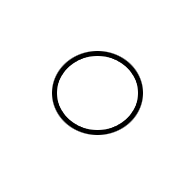
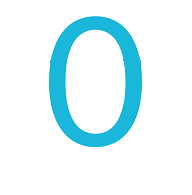
Mi aldonis novajn numerojn

Changed region(s): [[0.25, 0.0615, 0.75, 0.7692]]

diff --git a/docs/.vuepress/dist/index.html b/docs/.vuepress/dist/index.html
@@ -7,7 +7,7 @@
     <meta name="generator" content="VuePress 1.5.2">
     <link rel="icon" href="/elp-documentation/img/icon.png">
     <meta name="description" content="Documentation">
-    <link rel="preload" href="/elp-documentation/assets/css/0.styles.19a27aa8.css" as="style"><link rel="preload" href="/elp-documentation/assets/js/app.902cec4a.js" as="script"><link rel="preload" href="/elp-documentation/assets/js/2.40f18c42.js" as="script"><link rel="preload" href="/elp-documentation/assets/js/8.0102b500.js" as="script"><link rel="prefetch" href="/elp-documentation/assets/js/10.ab4f06ee.js"><link rel="prefetch" href="/elp-documentation/assets/js/11.dc060054.js"><link rel="prefetch" href="/elp-documentation/assets/js/12.58c82a88.js"><link rel="prefetch" href="/elp-documentation/assets/js/13.207e204f.js"><link rel="prefetch" href="/elp-documentation/assets/js/14.ae983c9e.js"><link rel="prefetch" href="/elp-documentation/assets/js/15.d73980bc.js"><link rel="prefetch" href="/elp-documentation/assets/js/16.f21a809b.js"><link rel="prefetch" href="/elp-documentation/assets/js/17.258a8812.js"><link rel="prefetch" href="/elp-documentation/assets/js/18.fc20fa0f.js"><link rel="prefetch" href="/elp-documentation/assets/js/19.1b31ead3.js"><link rel="prefetch" href="/elp-documentation/assets/js/20.94a38124.js"><link rel="prefetch" href="/elp-documentation/assets/js/21.d9b807d7.js"><link rel="prefetch" href="/elp-documentation/assets/js/22.1e46ca51.js"><link rel="prefetch" href="/elp-documentation/assets/js/23.c2e6fdaf.js"><link rel="prefetch" href="/elp-documentation/assets/js/24.072f6c7f.js"><link rel="prefetch" href="/elp-documentation/assets/js/25.1ed5ebbb.js"><link rel="prefetch" href="/elp-documentation/assets/js/26.ecc82dd6.js"><link rel="prefetch" href="/elp-documentation/assets/js/27.85b85e06.js"><link rel="prefetch" href="/elp-documentation/assets/js/28.24cc5991.js"><link rel="prefetch" href="/elp-documentation/assets/js/29.8bc46d46.js"><link rel="prefetch" href="/elp-documentation/assets/js/3.0c698e2b.js"><link rel="prefetch" href="/elp-documentation/assets/js/30.3e6a8649.js"><link rel="prefetch" href="/elp-documentation/assets/js/31.9b376544.js"><link rel="prefetch" href="/elp-documentation/assets/js/32.b46d0c4e.js"><link rel="prefetch" href="/elp-documentation/assets/js/33.be58e3b3.js"><link rel="prefetch" href="/elp-documentation/assets/js/34.119becd1.js"><link rel="prefetch" href="/elp-documentation/assets/js/35.a0467204.js"><link rel="prefetch" href="/elp-documentation/assets/js/36.4e9e021d.js"><link rel="prefetch" href="/elp-documentation/assets/js/37.c6ff1964.js"><link rel="prefetch" href="/elp-documentation/assets/js/38.c7c80248.js"><link rel="prefetch" href="/elp-documentation/assets/js/39.dfbf78e8.js"><link rel="prefetch" href="/elp-documentation/assets/js/4.813d1e1c.js"><link rel="prefetch" href="/elp-documentation/assets/js/40.0256925e.js"><link rel="prefetch" href="/elp-documentation/assets/js/41.9bfc1f5c.js"><link rel="prefetch" href="/elp-documentation/assets/js/42.328736ea.js"><link rel="prefetch" href="/elp-documentation/assets/js/43.ee439f4e.js"><link rel="prefetch" href="/elp-documentation/assets/js/44.3f8bb16f.js"><link rel="prefetch" href="/elp-documentation/assets/js/45.25db4d06.js"><link rel="prefetch" href="/elp-documentation/assets/js/46.38cb5263.js"><link rel="prefetch" href="/elp-documentation/assets/js/47.c4fd2c35.js"><link rel="prefetch" href="/elp-documentation/assets/js/48.5575f056.js"><link rel="prefetch" href="/elp-documentation/assets/js/49.7f0967d5.js"><link rel="prefetch" href="/elp-documentation/assets/js/5.7f369487.js"><link rel="prefetch" href="/elp-documentation/assets/js/50.84039f57.js"><link rel="prefetch" href="/elp-documentation/assets/js/51.672626ff.js"><link rel="prefetch" href="/elp-documentation/assets/js/52.e79b9229.js"><link rel="prefetch" href="/elp-documentation/assets/js/53.934de324.js"><link rel="prefetch" href="/elp-documentation/assets/js/6.8faa3569.js"><link rel="prefetch" href="/elp-documentation/assets/js/7.64e73683.js"><link rel="prefetch" href="/elp-documentation/assets/js/9.749d4905.js">
+    <link rel="preload" href="/elp-documentation/assets/css/0.styles.19a27aa8.css" as="style"><link rel="preload" href="/elp-documentation/assets/js/app.f8e9a53f.js" as="script"><link rel="preload" href="/elp-documentation/assets/js/2.40f18c42.js" as="script"><link rel="preload" href="/elp-documentation/assets/js/8.0102b500.js" as="script"><link rel="prefetch" href="/elp-documentation/assets/js/10.f1ce76e5.js"><link rel="prefetch" href="/elp-documentation/assets/js/11.dc060054.js"><link rel="prefetch" href="/elp-documentation/assets/js/12.9d738b1d.js"><link rel="prefetch" href="/elp-documentation/assets/js/13.98567033.js"><link rel="prefetch" href="/elp-documentation/assets/js/14.6d74859e.js"><link rel="prefetch" href="/elp-documentation/assets/js/15.d73980bc.js"><link rel="prefetch" href="/elp-documentation/assets/js/16.68d06fdd.js"><link rel="prefetch" href="/elp-documentation/assets/js/17.f4e18ddf.js"><link rel="prefetch" href="/elp-documentation/assets/js/18.28c63ef8.js"><link rel="prefetch" href="/elp-documentation/assets/js/19.e283bbb5.js"><link rel="prefetch" href="/elp-documentation/assets/js/20.26c15254.js"><link rel="prefetch" href="/elp-documentation/assets/js/21.13943f0d.js"><link rel="prefetch" href="/elp-documentation/assets/js/22.1a46e9b7.js"><link rel="prefetch" href="/elp-documentation/assets/js/23.8b1a0a2e.js"><link rel="prefetch" href="/elp-documentation/assets/js/24.bce5f5e1.js"><link rel="prefetch" href="/elp-documentation/assets/js/25.97279d12.js"><link rel="prefetch" href="/elp-documentation/assets/js/26.053e220a.js"><link rel="prefetch" href="/elp-documentation/assets/js/27.6b8e3957.js"><link rel="prefetch" href="/elp-documentation/assets/js/28.4d15fc42.js"><link rel="prefetch" href="/elp-documentation/assets/js/29.1e6892c3.js"><link rel="prefetch" href="/elp-documentation/assets/js/3.0c698e2b.js"><link rel="prefetch" href="/elp-documentation/assets/js/30.d83516a1.js"><link rel="prefetch" href="/elp-documentation/assets/js/31.9b376544.js"><link rel="prefetch" href="/elp-documentation/assets/js/32.632d9350.js"><link rel="prefetch" href="/elp-documentation/assets/js/33.39b94676.js"><link rel="prefetch" href="/elp-documentation/assets/js/34.119becd1.js"><link rel="prefetch" href="/elp-documentation/assets/js/35.5bb7193d.js"><link rel="prefetch" href="/elp-documentation/assets/js/36.4e9e021d.js"><link rel="prefetch" href="/elp-documentation/assets/js/37.277607c0.js"><link rel="prefetch" href="/elp-documentation/assets/js/38.f1ff1fb5.js"><link rel="prefetch" href="/elp-documentation/assets/js/39.2b641215.js"><link rel="prefetch" href="/elp-documentation/assets/js/4.813d1e1c.js"><link rel="prefetch" href="/elp-documentation/assets/js/40.bde570fd.js"><link rel="prefetch" href="/elp-documentation/assets/js/41.994802fc.js"><link rel="prefetch" href="/elp-documentation/assets/js/42.328736ea.js"><link rel="prefetch" href="/elp-documentation/assets/js/43.ee439f4e.js"><link rel="prefetch" href="/elp-documentation/assets/js/44.3f8bb16f.js"><link rel="prefetch" href="/elp-documentation/assets/js/45.9c8e209c.js"><link rel="prefetch" href="/elp-documentation/assets/js/46.99090ff7.js"><link rel="prefetch" href="/elp-documentation/assets/js/47.c4fd2c35.js"><link rel="prefetch" href="/elp-documentation/assets/js/48.5a244f99.js"><link rel="prefetch" href="/elp-documentation/assets/js/49.ad3ad438.js"><link rel="prefetch" href="/elp-documentation/assets/js/5.7f369487.js"><link rel="prefetch" href="/elp-documentation/assets/js/50.b1826119.js"><link rel="prefetch" href="/elp-documentation/assets/js/51.46d08467.js"><link rel="prefetch" href="/elp-documentation/assets/js/52.e79b9229.js"><link rel="prefetch" href="/elp-documentation/assets/js/53.1ccce4ab.js"><link rel="prefetch" href="/elp-documentation/assets/js/6.8faa3569.js"><link rel="prefetch" href="/elp-documentation/assets/js/7.64e73683.js"><link rel="prefetch" href="/elp-documentation/assets/js/9.09fdcde1.js">
     <link rel="stylesheet" href="/elp-documentation/assets/css/0.styles.19a27aa8.css">
   </head>
   <body>
@@ -43,7 +43,7 @@
   Discord
   <svg xmlns="http://www.w3.org/2000/svg" aria-hidden="true" x="0px" y="0px" viewBox="0 0 100 100" width="15" height="15" class="icon outbound"><path fill="currentColor" d="M18.8,85.1h56l0,0c2.2,0,4-1.8,4-4v-32h-8v28h-48v-48h28v-8h-32l0,0c-2.2,0-4,1.8-4,4v56C14.8,83.3,16.6,85.1,18.8,85.1z"></path> <polygon fill="currentColor" points="45.7,48.7 51.3,54.3 77.2,28.5 77.2,37.2 85.2,37.2 85.2,14.9 62.8,14.9 62.8,22.9 71.5,22.9"></polygon></svg></a></li></ul></div></div><div class="nav-item"><a href="/elp-documentation/faq/" class="nav-link">
   FAQ
-</a></div> <!----></nav>  <ul class="sidebar-links"><li><a href="/elp-documentation/documentation.html" class="sidebar-link">Encapsulated Language Project</a><ul class="sidebar-sub-headers"><li class="sidebar-sub-header"><a href="/elp-documentation/documentation.html#language-name" class="sidebar-link">Language Name</a></li><li class="sidebar-sub-header"><a href="/elp-documentation/documentation.html#language-logo-flag" class="sidebar-link">Language Logo / Flag</a></li><li class="sidebar-sub-header"><a href="/elp-documentation/documentation.html#aims-and-goals-of-the-language" class="sidebar-link">Aims and Goals of the Language</a></li><li class="sidebar-sub-header"><a href="/elp-documentation/documentation.html#encapsulated-language-project-definitions" class="sidebar-link">Encapsulated Language Project Definitions</a></li><li class="sidebar-sub-header"><a href="/elp-documentation/documentation.html#history-of-the-encapsulated-language-project" class="sidebar-link">History of the Encapsulated Language Project</a></li></ul></li><li><a href="/elp-documentation/encapsulation.html" class="sidebar-link">Encapsulation</a><ul class="sidebar-sub-headers"><li class="sidebar-sub-header"><a href="/elp-documentation/encapsulation.html#numerals" class="sidebar-link">Numerals</a></li><li class="sidebar-sub-header"><a href="/elp-documentation/encapsulation.html#numeral-phoneme-mapping" class="sidebar-link">Numeral-Phoneme Mapping</a></li><li class="sidebar-sub-header"><a href="/elp-documentation/encapsulation.html#numeric-prefixes" class="sidebar-link">Numeric Prefixes</a></li></ul></li><li><a href="/elp-documentation/history.html" class="sidebar-link">History</a><ul class="sidebar-sub-headers"><li class="sidebar-sub-header"><a href="/elp-documentation/history.html#why-base-6" class="sidebar-link">Why Base-6?</a></li><li class="sidebar-sub-header"><a href="/elp-documentation/history.html#what-is-the-history-of-the-phonology" class="sidebar-link">What is the history of the phonology?</a></li></ul></li><li><a href="/elp-documentation/programs.html" class="sidebar-link">Programs</a><ul class="sidebar-sub-headers"><li class="sidebar-sub-header"><a href="/elp-documentation/programs.html#download-the-official-logo" class="sidebar-link">Download the Official Logo</a></li><li class="sidebar-sub-header"><a href="/elp-documentation/programs.html#download-graphics-for-the-numerals" class="sidebar-link">Download graphics for the numerals</a></li><li class="sidebar-sub-header"><a href="/elp-documentation/programs.html#download-programs-to-type-the-numbers" class="sidebar-link">Download programs to type the numbers</a></li><li class="sidebar-sub-header"><a href="/elp-documentation/programs.html#base-12-number-to-number-word-and-numeral-converter" class="sidebar-link">Base-12 Number to number word and numeral converter</a></li><li class="sidebar-sub-header"><a href="/elp-documentation/programs.html#colors" class="sidebar-link">Colors</a></li></ul></li></ul> </aside> <main aria-labelledby="main-title" class="home"><header class="hero"><img src="./logo.png" alt="hero"> <h1 id="main-title">
+</a></div> <!----></nav>  <ul class="sidebar-links"><li><a href="/elp-documentation/documentation.html" class="sidebar-link">Encapsulated Language Project</a><ul class="sidebar-sub-headers"><li class="sidebar-sub-header"><a href="/elp-documentation/documentation.html#language-name" class="sidebar-link">Language Name</a></li><li class="sidebar-sub-header"><a href="/elp-documentation/documentation.html#language-logo-flag" class="sidebar-link">Language Logo / Flag</a></li><li class="sidebar-sub-header"><a href="/elp-documentation/documentation.html#aims-and-goals-of-the-language" class="sidebar-link">Aims and Goals of the Language</a></li><li class="sidebar-sub-header"><a href="/elp-documentation/documentation.html#encapsulated-language-project-definitions" class="sidebar-link">Encapsulated Language Project Definitions</a></li><li class="sidebar-sub-header"><a href="/elp-documentation/documentation.html#history-of-the-encapsulated-language-project" class="sidebar-link">History of the Encapsulated Language Project</a></li></ul></li><li><a href="/elp-documentation/encapsulation.html" class="sidebar-link">Encapsulation</a><ul class="sidebar-sub-headers"><li class="sidebar-sub-header"><a href="/elp-documentation/encapsulation.html#numerals" class="sidebar-link">Numerals</a></li><li class="sidebar-sub-header"><a href="/elp-documentation/encapsulation.html#numeral-phoneme-mapping" class="sidebar-link">Numeral-Phoneme Mapping</a></li><li class="sidebar-sub-header"><a href="/elp-documentation/encapsulation.html#numeric-prefixes" class="sidebar-link">Numeric Prefixes</a></li></ul></li><li><a href="/elp-documentation/history.html" class="sidebar-link">History</a><ul class="sidebar-sub-headers"><li class="sidebar-sub-header"><a href="/elp-documentation/history.html#why-base-6" class="sidebar-link">Why Base-6?</a></li><li class="sidebar-sub-header"><a href="/elp-documentation/history.html#what-is-the-history-of-the-phonology" class="sidebar-link">What is the history of the phonology?</a></li></ul></li><li><a href="/elp-documentation/programs.html" class="sidebar-link">Programs</a><ul class="sidebar-sub-headers"><li class="sidebar-sub-header"><a href="/elp-documentation/programs.html#download-the-official-logo" class="sidebar-link">Download the Official Logo</a></li><li class="sidebar-sub-header"><a href="/elp-documentation/programs.html#download-graphics-for-the-numerals" class="sidebar-link">Download graphics for the numerals</a></li><li class="sidebar-sub-header"><a href="/elp-documentation/programs.html#apps" class="sidebar-link">Apps</a></li><li class="sidebar-sub-header"><a href="/elp-documentation/programs.html#colors" class="sidebar-link">Colors</a></li></ul></li></ul> </aside> <main aria-labelledby="main-title" class="home"><header class="hero"><img src="./logo.png" alt="hero"> <h1 id="main-title">
       Encapsulated Language Project
     </h1> <p class="description">
       An opensource project to create the language of tomorrow's leaders
@@ -52,6 +52,6 @@
 </a></p></header> <div class="features"><div class="feature"><h2>Encapsulation</h2> <p>We aim to create a language that encapsulates as much scientific and mathematical knowledge as possible.</p></div><div class="feature"><h2>Intuitiveness</h2> <p>We aim to create an intuitive understanding of the world around us from a mathematical and scientific perspective.</p></div><div class="feature"><h2>Evolution</h2> <p>We aim to raise a generation of native speakers to be tomorrow's leaders.</p></div></div> <div class="theme-default-content custom content__default"></div> <div class="footer">
     Encapsulated Language Project 2020-present
   </div></main></div><div class="global-ui"><!----></div></div>
-    <script src="/elp-documentation/assets/js/app.902cec4a.js" defer></script><script src="/elp-documentation/assets/js/2.40f18c42.js" defer></script><script src="/elp-documentation/assets/js/8.0102b500.js" defer></script>
+    <script src="/elp-documentation/assets/js/app.f8e9a53f.js" defer></script><script src="/elp-documentation/assets/js/2.40f18c42.js" defer></script><script src="/elp-documentation/assets/js/8.0102b500.js" defer></script>
   </body>
 </html>

diff --git a/docs/.vuepress/dist/faq/index.html b/docs/.vuepress/dist/faq/index.html
@@ -7,7 +7,7 @@
     <meta name="generator" content="VuePress 1.5.2">
     <link rel="icon" href="/elp-documentation/img/icon.png">
     <meta name="description" content="Documentation">
-    <link rel="preload" href="/elp-documentation/assets/css/0.styles.19a27aa8.css" as="style"><link rel="preload" href="/elp-documentation/assets/js/app.902cec4a.js" as="script"><link rel="preload" href="/elp-documentation/assets/js/2.40f18c42.js" as="script"><link rel="preload" href="/elp-documentation/assets/js/12.58c82a88.js" as="script"><link rel="prefetch" href="/elp-documentation/assets/js/10.ab4f06ee.js"><link rel="prefetch" href="/elp-documentation/assets/js/11.dc060054.js"><link rel="prefetch" href="/elp-documentation/assets/js/13.207e204f.js"><link rel="prefetch" href="/elp-documentation/assets/js/14.ae983c9e.js"><link rel="prefetch" href="/elp-documentation/assets/js/15.d73980bc.js"><link rel="prefetch" href="/elp-documentation/assets/js/16.f21a809b.js"><link rel="prefetch" href="/elp-documentation/assets/js/17.258a8812.js"><link rel="prefetch" href="/elp-documentation/assets/js/18.fc20fa0f.js"><link rel="prefetch" href="/elp-documentation/assets/js/19.1b31ead3.js"><link rel="prefetch" href="/elp-documentation/assets/js/20.94a38124.js"><link rel="prefetch" href="/elp-documentation/assets/js/21.d9b807d7.js"><link rel="prefetch" href="/elp-documentation/assets/js/22.1e46ca51.js"><link rel="prefetch" href="/elp-documentation/assets/js/23.c2e6fdaf.js"><link rel="prefetch" href="/elp-documentation/assets/js/24.072f6c7f.js"><link rel="prefetch" href="/elp-documentation/assets/js/25.1ed5ebbb.js"><link rel="prefetch" href="/elp-documentation/assets/js/26.ecc82dd6.js"><link rel="prefetch" href="/elp-documentation/assets/js/27.85b85e06.js"><link rel="prefetch" href="/elp-documentation/assets/js/28.24cc5991.js"><link rel="prefetch" href="/elp-documentation/assets/js/29.8bc46d46.js"><link rel="prefetch" href="/elp-documentation/assets/js/3.0c698e2b.js"><link rel="prefetch" href="/elp-documentation/assets/js/30.3e6a8649.js"><link rel="prefetch" href="/elp-documentation/assets/js/31.9b376544.js"><link rel="prefetch" href="/elp-documentation/assets/js/32.b46d0c4e.js"><link rel="prefetch" href="/elp-documentation/assets/js/33.be58e3b3.js"><link rel="prefetch" href="/elp-documentation/assets/js/34.119becd1.js"><link rel="prefetch" href="/elp-documentation/assets/js/35.a0467204.js"><link rel="prefetch" href="/elp-documentation/assets/js/36.4e9e021d.js"><link rel="prefetch" href="/elp-documentation/assets/js/37.c6ff1964.js"><link rel="prefetch" href="/elp-documentation/assets/js/38.c7c80248.js"><link rel="prefetch" href="/elp-documentation/assets/js/39.dfbf78e8.js"><link rel="prefetch" href="/elp-documentation/assets/js/4.813d1e1c.js"><link rel="prefetch" href="/elp-documentation/assets/js/40.0256925e.js"><link rel="prefetch" href="/elp-documentation/assets/js/41.9bfc1f5c.js"><link rel="prefetch" href="/elp-documentation/assets/js/42.328736ea.js"><link rel="prefetch" href="/elp-documentation/assets/js/43.ee439f4e.js"><link rel="prefetch" href="/elp-documentation/assets/js/44.3f8bb16f.js"><link rel="prefetch" href="/elp-documentation/assets/js/45.25db4d06.js"><link rel="prefetch" href="/elp-documentation/assets/js/46.38cb5263.js"><link rel="prefetch" href="/elp-documentation/assets/js/47.c4fd2c35.js"><link rel="prefetch" href="/elp-documentation/assets/js/48.5575f056.js"><link rel="prefetch" href="/elp-documentation/assets/js/49.7f0967d5.js"><link rel="prefetch" href="/elp-documentation/assets/js/5.7f369487.js"><link rel="prefetch" href="/elp-documentation/assets/js/50.84039f57.js"><link rel="prefetch" href="/elp-documentation/assets/js/51.672626ff.js"><link rel="prefetch" href="/elp-documentation/assets/js/52.e79b9229.js"><link rel="prefetch" href="/elp-documentation/assets/js/53.934de324.js"><link rel="prefetch" href="/elp-documentation/assets/js/6.8faa3569.js"><link rel="prefetch" href="/elp-documentation/assets/js/7.64e73683.js"><link rel="prefetch" href="/elp-documentation/assets/js/8.0102b500.js"><link rel="prefetch" href="/elp-documentation/assets/js/9.749d4905.js">
+    <link rel="preload" href="/elp-documentation/assets/css/0.styles.19a27aa8.css" as="style"><link rel="preload" href="/elp-documentation/assets/js/app.f8e9a53f.js" as="script"><link rel="preload" href="/elp-documentation/assets/js/2.40f18c42.js" as="script"><link rel="preload" href="/elp-documentation/assets/js/12.9d738b1d.js" as="script"><link rel="prefetch" href="/elp-documentation/assets/js/10.f1ce76e5.js"><link rel="prefetch" href="/elp-documentation/assets/js/11.dc060054.js"><link rel="prefetch" href="/elp-documentation/assets/js/13.98567033.js"><link rel="prefetch" href="/elp-documentation/assets/js/14.6d74859e.js"><link rel="prefetch" href="/elp-documentation/assets/js/15.d73980bc.js"><link rel="prefetch" href="/elp-documentation/assets/js/16.68d06fdd.js"><link rel="prefetch" href="/elp-documentation/assets/js/17.f4e18ddf.js"><link rel="prefetch" href="/elp-documentation/assets/js/18.28c63ef8.js"><link rel="prefetch" href="/elp-documentation/assets/js/19.e283bbb5.js"><link rel="prefetch" href="/elp-documentation/assets/js/20.26c15254.js"><link rel="prefetch" href="/elp-documentation/assets/js/21.13943f0d.js"><link rel="prefetch" href="/elp-documentation/assets/js/22.1a46e9b7.js"><link rel="prefetch" href="/elp-documentation/assets/js/23.8b1a0a2e.js"><link rel="prefetch" href="/elp-documentation/assets/js/24.bce5f5e1.js"><link rel="prefetch" href="/elp-documentation/assets/js/25.97279d12.js"><link rel="prefetch" href="/elp-documentation/assets/js/26.053e220a.js"><link rel="prefetch" href="/elp-documentation/assets/js/27.6b8e3957.js"><link rel="prefetch" href="/elp-documentation/assets/js/28.4d15fc42.js"><link rel="prefetch" href="/elp-documentation/assets/js/29.1e6892c3.js"><link rel="prefetch" href="/elp-documentation/assets/js/3.0c698e2b.js"><link rel="prefetch" href="/elp-documentation/assets/js/30.d83516a1.js"><link rel="prefetch" href="/elp-documentation/assets/js/31.9b376544.js"><link rel="prefetch" href="/elp-documentation/assets/js/32.632d9350.js"><link rel="prefetch" href="/elp-documentation/assets/js/33.39b94676.js"><link rel="prefetch" href="/elp-documentation/assets/js/34.119becd1.js"><link rel="prefetch" href="/elp-documentation/assets/js/35.5bb7193d.js"><link rel="prefetch" href="/elp-documentation/assets/js/36.4e9e021d.js"><link rel="prefetch" href="/elp-documentation/assets/js/37.277607c0.js"><link rel="prefetch" href="/elp-documentation/assets/js/38.f1ff1fb5.js"><link rel="prefetch" href="/elp-documentation/assets/js/39.2b641215.js"><link rel="prefetch" href="/elp-documentation/assets/js/4.813d1e1c.js"><link rel="prefetch" href="/elp-documentation/assets/js/40.bde570fd.js"><link rel="prefetch" href="/elp-documentation/assets/js/41.994802fc.js"><link rel="prefetch" href="/elp-documentation/assets/js/42.328736ea.js"><link rel="prefetch" href="/elp-documentation/assets/js/43.ee439f4e.js"><link rel="prefetch" href="/elp-documentation/assets/js/44.3f8bb16f.js"><link rel="prefetch" href="/elp-documentation/assets/js/45.9c8e209c.js"><link rel="prefetch" href="/elp-documentation/assets/js/46.99090ff7.js"><link rel="prefetch" href="/elp-documentation/assets/js/47.c4fd2c35.js"><link rel="prefetch" href="/elp-documentation/assets/js/48.5a244f99.js"><link rel="prefetch" href="/elp-documentation/assets/js/49.ad3ad438.js"><link rel="prefetch" href="/elp-documentation/assets/js/5.7f369487.js"><link rel="prefetch" href="/elp-documentation/assets/js/50.b1826119.js"><link rel="prefetch" href="/elp-documentation/assets/js/51.46d08467.js"><link rel="prefetch" href="/elp-documentation/assets/js/52.e79b9229.js"><link rel="prefetch" href="/elp-documentation/assets/js/53.1ccce4ab.js"><link rel="prefetch" href="/elp-documentation/assets/js/6.8faa3569.js"><link rel="prefetch" href="/elp-documentation/assets/js/7.64e73683.js"><link rel="prefetch" href="/elp-documentation/assets/js/8.0102b500.js"><link rel="prefetch" href="/elp-documentation/assets/js/9.09fdcde1.js">
     <link rel="stylesheet" href="/elp-documentation/assets/css/0.styles.19a27aa8.css">
   </head>
   <body>
@@ -132,6 +132,6 @@ comparable to advantages that bilingual students have in forming two ways of thi
 improve the wording of a particular section.</p> <p>New sections shouldn’t be added to this document unless:</p> <ul><li>They have general community support,</li> <li>They are so minor they won’t impact upon anyone else’s work.</li></ul> <h2 id="what-to-do-with-contradictions"><a href="#what-to-do-with-contradictions" class="header-anchor">#</a> What to do with contradictions?</h2> <p>This is an open source project which means errors and contradictions will appear.
 If you notice two sections that contradict one another then please post them to
 Reddit for discussion.</p></div> <footer class="page-edit"><div class="edit-link"><a href="https://github.com/kroyxlab/elp-documentation/edit/master/docs/faq/README.md" target="_blank" rel="noopener noreferrer">Help us improve this page!</a> <svg xmlns="http://www.w3.org/2000/svg" aria-hidden="true" x="0px" y="0px" viewBox="0 0 100 100" width="15" height="15" class="icon outbound"><path fill="currentColor" d="M18.8,85.1h56l0,0c2.2,0,4-1.8,4-4v-32h-8v28h-48v-48h28v-8h-32l0,0c-2.2,0-4,1.8-4,4v56C14.8,83.3,16.6,85.1,18.8,85.1z"></path> <polygon fill="currentColor" points="45.7,48.7 51.3,54.3 77.2,28.5 77.2,37.2 85.2,37.2 85.2,14.9 62.8,14.9 62.8,22.9 71.5,22.9"></polygon></svg></div> <div class="last-updated"><span class="prefix">Last Updated:</span> <span class="time">9/20/2020, 12:11:00 PM</span></div></footer> <!----> </main></div><div class="global-ui"><!----></div></div>
-    <script src="/elp-documentation/assets/js/app.902cec4a.js" defer></script><script src="/elp-documentation/assets/js/2.40f18c42.js" defer></script><script src="/elp-documentation/assets/js/12.58c82a88.js" defer></script>
+    <script src="/elp-documentation/assets/js/app.f8e9a53f.js" defer></script><script src="/elp-documentation/assets/js/2.40f18c42.js" defer></script><script src="/elp-documentation/assets/js/12.9d738b1d.js" defer></script>
   </body>
 </html>

diff --git a/docs/.vuepress/dist/404.html b/docs/.vuepress/dist/404.html
@@ -7,13 +7,13 @@
     <meta name="generator" content="VuePress 1.5.2">
     <link rel="icon" href="/elp-documentation/img/icon.png">
     <meta name="description" content="Documentation">
-    <link rel="preload" href="/elp-documentation/assets/css/0.styles.19a27aa8.css" as="style"><link rel="preload" href="/elp-documentation/assets/js/app.902cec4a.js" as="script"><link rel="preload" href="/elp-documentation/assets/js/7.64e73683.js" as="script"><link rel="prefetch" href="/elp-documentation/assets/js/10.ab4f06ee.js"><link rel="prefetch" href="/elp-documentation/assets/js/11.dc060054.js"><link rel="prefetch" href="/elp-documentation/assets/js/12.58c82a88.js"><link rel="prefetch" href="/elp-documentation/assets/js/13.207e204f.js"><link rel="prefetch" href="/elp-documentation/assets/js/14.ae983c9e.js"><link rel="prefetch" href="/elp-documentation/assets/js/15.d73980bc.js"><link rel="prefetch" href="/elp-documentation/assets/js/16.f21a809b.js"><link rel="prefetch" href="/elp-documentation/assets/js/17.258a8812.js"><link rel="prefetch" href="/elp-documentation/assets/js/18.fc20fa0f.js"><link rel="prefetch" href="/elp-documentation/assets/js/19.1b31ead3.js"><link rel="prefetch" href="/elp-documentation/assets/js/2.40f18c42.js"><link rel="prefetch" href="/elp-documentation/assets/js/20.94a38124.js"><link rel="prefetch" href="/elp-documentation/assets/js/21.d9b807d7.js"><link rel="prefetch" href="/elp-documentation/assets/js/22.1e46ca51.js"><link rel="prefetch" href="/elp-documentation/assets/js/23.c2e6fdaf.js"><link rel="prefetch" href="/elp-documentation/assets/js/24.072f6c7f.js"><link rel="prefetch" href="/elp-documentation/assets/js/25.1ed5ebbb.js"><link rel="prefetch" href="/elp-documentation/assets/js/26.ecc82dd6.js"><link rel="prefetch" href="/elp-documentation/assets/js/27.85b85e06.js"><link rel="prefetch" href="/elp-documentation/assets/js/28.24cc5991.js"><link rel="prefetch" href="/elp-documentation/assets/js/29.8bc46d46.js"><link rel="prefetch" href="/elp-documentation/assets/js/3.0c698e2b.js"><link rel="prefetch" href="/elp-documentation/assets/js/30.3e6a8649.js"><link rel="prefetch" href="/elp-documentation/assets/js/31.9b376544.js"><link rel="prefetch" href="/elp-documentation/assets/js/32.b46d0c4e.js"><link rel="prefetch" href="/elp-documentation/assets/js/33.be58e3b3.js"><link rel="prefetch" href="/elp-documentation/assets/js/34.119becd1.js"><link rel="prefetch" href="/elp-documentation/assets/js/35.a0467204.js"><link rel="prefetch" href="/elp-documentation/assets/js/36.4e9e021d.js"><link rel="prefetch" href="/elp-documentation/assets/js/37.c6ff1964.js"><link rel="prefetch" href="/elp-documentation/assets/js/38.c7c80248.js"><link rel="prefetch" href="/elp-documentation/assets/js/39.dfbf78e8.js"><link rel="prefetch" href="/elp-documentation/assets/js/4.813d1e1c.js"><link rel="prefetch" href="/elp-documentation/assets/js/40.0256925e.js"><link rel="prefetch" href="/elp-documentation/assets/js/41.9bfc1f5c.js"><link rel="prefetch" href="/elp-documentation/assets/js/42.328736ea.js"><link rel="prefetch" href="/elp-documentation/assets/js/43.ee439f4e.js"><link rel="prefetch" href="/elp-documentation/assets/js/44.3f8bb16f.js"><link rel="prefetch" href="/elp-documentation/assets/js/45.25db4d06.js"><link rel="prefetch" href="/elp-documentation/assets/js/46.38cb5263.js"><link rel="prefetch" href="/elp-documentation/assets/js/47.c4fd2c35.js"><link rel="prefetch" href="/elp-documentation/assets/js/48.5575f056.js"><link rel="prefetch" href="/elp-documentation/assets/js/49.7f0967d5.js"><link rel="prefetch" href="/elp-documentation/assets/js/5.7f369487.js"><link rel="prefetch" href="/elp-documentation/assets/js/50.84039f57.js"><link rel="prefetch" href="/elp-documentation/assets/js/51.672626ff.js"><link rel="prefetch" href="/elp-documentation/assets/js/52.e79b9229.js"><link rel="prefetch" href="/elp-documentation/assets/js/53.934de324.js"><link rel="prefetch" href="/elp-documentation/assets/js/6.8faa3569.js"><link rel="prefetch" href="/elp-documentation/assets/js/8.0102b500.js"><link rel="prefetch" href="/elp-documentation/assets/js/9.749d4905.js">
+    <link rel="preload" href="/elp-documentation/assets/css/0.styles.19a27aa8.css" as="style"><link rel="preload" href="/elp-documentation/assets/js/app.f8e9a53f.js" as="script"><link rel="preload" href="/elp-documentation/assets/js/7.64e73683.js" as="script"><link rel="prefetch" href="/elp-documentation/assets/js/10.f1ce76e5.js"><link rel="prefetch" href="/elp-documentation/assets/js/11.dc060054.js"><link rel="prefetch" href="/elp-documentation/assets/js/12.9d738b1d.js"><link rel="prefetch" href="/elp-documentation/assets/js/13.98567033.js"><link rel="prefetch" href="/elp-documentation/assets/js/14.6d74859e.js"><link rel="prefetch" href="/elp-documentation/assets/js/15.d73980bc.js"><link rel="prefetch" href="/elp-documentation/assets/js/16.68d06fdd.js"><link rel="prefetch" href="/elp-documentation/assets/js/17.f4e18ddf.js"><link rel="prefetch" href="/elp-documentation/assets/js/18.28c63ef8.js"><link rel="prefetch" href="/elp-documentation/assets/js/19.e283bbb5.js"><link rel="prefetch" href="/elp-documentation/assets/js/2.40f18c42.js"><link rel="prefetch" href="/elp-documentation/assets/js/20.26c15254.js"><link rel="prefetch" href="/elp-documentation/assets/js/21.13943f0d.js"><link rel="prefetch" href="/elp-documentation/assets/js/22.1a46e9b7.js"><link rel="prefetch" href="/elp-documentation/assets/js/23.8b1a0a2e.js"><link rel="prefetch" href="/elp-documentation/assets/js/24.bce5f5e1.js"><link rel="prefetch" href="/elp-documentation/assets/js/25.97279d12.js"><link rel="prefetch" href="/elp-documentation/assets/js/26.053e220a.js"><link rel="prefetch" href="/elp-documentation/assets/js/27.6b8e3957.js"><link rel="prefetch" href="/elp-documentation/assets/js/28.4d15fc42.js"><link rel="prefetch" href="/elp-documentation/assets/js/29.1e6892c3.js"><link rel="prefetch" href="/elp-documentation/assets/js/3.0c698e2b.js"><link rel="prefetch" href="/elp-documentation/assets/js/30.d83516a1.js"><link rel="prefetch" href="/elp-documentation/assets/js/31.9b376544.js"><link rel="prefetch" href="/elp-documentation/assets/js/32.632d9350.js"><link rel="prefetch" href="/elp-documentation/assets/js/33.39b94676.js"><link rel="prefetch" href="/elp-documentation/assets/js/34.119becd1.js"><link rel="prefetch" href="/elp-documentation/assets/js/35.5bb7193d.js"><link rel="prefetch" href="/elp-documentation/assets/js/36.4e9e021d.js"><link rel="prefetch" href="/elp-documentation/assets/js/37.277607c0.js"><link rel="prefetch" href="/elp-documentation/assets/js/38.f1ff1fb5.js"><link rel="prefetch" href="/elp-documentation/assets/js/39.2b641215.js"><link rel="prefetch" href="/elp-documentation/assets/js/4.813d1e1c.js"><link rel="prefetch" href="/elp-documentation/assets/js/40.bde570fd.js"><link rel="prefetch" href="/elp-documentation/assets/js/41.994802fc.js"><link rel="prefetch" href="/elp-documentation/assets/js/42.328736ea.js"><link rel="prefetch" href="/elp-documentation/assets/js/43.ee439f4e.js"><link rel="prefetch" href="/elp-documentation/assets/js/44.3f8bb16f.js"><link rel="prefetch" href="/elp-documentation/assets/js/45.9c8e209c.js"><link rel="prefetch" href="/elp-documentation/assets/js/46.99090ff7.js"><link rel="prefetch" href="/elp-documentation/assets/js/47.c4fd2c35.js"><link rel="prefetch" href="/elp-documentation/assets/js/48.5a244f99.js"><link rel="prefetch" href="/elp-documentation/assets/js/49.ad3ad438.js"><link rel="prefetch" href="/elp-documentation/assets/js/5.7f369487.js"><link rel="prefetch" href="/elp-documentation/assets/js/50.b1826119.js"><link rel="prefetch" href="/elp-documentation/assets/js/51.46d08467.js"><link rel="prefetch" href="/elp-documentation/assets/js/52.e79b9229.js"><link rel="prefetch" href="/elp-documentation/assets/js/53.1ccce4ab.js"><link rel="prefetch" href="/elp-documentation/assets/js/6.8faa3569.js"><link rel="prefetch" href="/elp-documentation/assets/js/8.0102b500.js"><link rel="prefetch" href="/elp-documentation/assets/js/9.09fdcde1.js">
     <link rel="stylesheet" href="/elp-documentation/assets/css/0.styles.19a27aa8.css">
   </head>
   <body>
     <div id="app" data-server-rendered="true"><div class="theme-container"><div class="theme-default-content"><h1>404</h1> <blockquote>How did we get here?</blockquote> <a href="/elp-documentation/" class="router-link-active">
       Take me home.
     </a></div></div><div class="global-ui"><!----></div></div>
-    <script src="/elp-documentation/assets/js/app.902cec4a.js" defer></script><script src="/elp-documentation/assets/js/7.64e73683.js" defer></script>
+    <script src="/elp-documentation/assets/js/app.f8e9a53f.js" defer></script><script src="/elp-documentation/assets/js/7.64e73683.js" defer></script>
   </body>
 </html>
